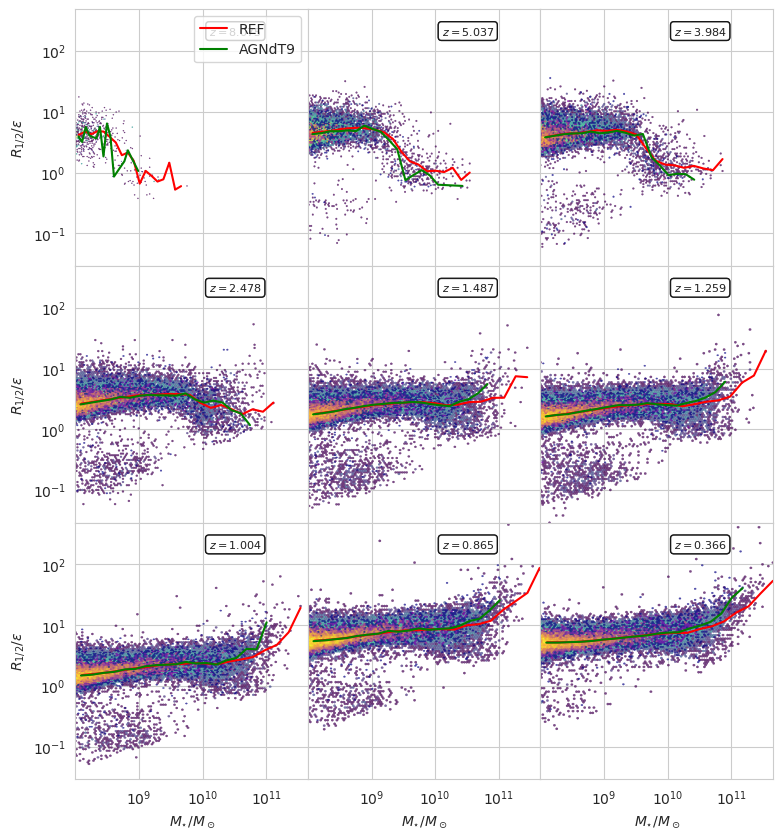
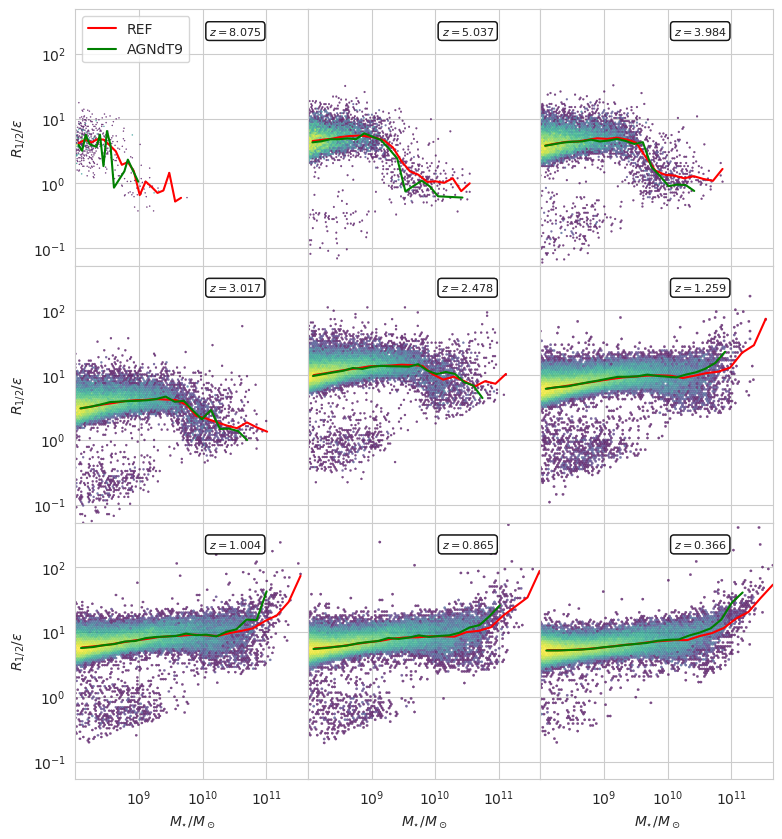
animation

diff --git a/birth_density_profile_REF.py b/birth_density_profile_REF.py
@@ -128,9 +128,9 @@ def get_data(masslim=1e8, load=False):
                 gal_bd = E.read_array('PARTDATA', path, snap, 'PartType4/BirthDensity', noH=True,
                                         physicalUnits=True, numThreads=8)
                 gal_coord = E.read_array('PARTDATA', path, snap, 'PartType4/Coordinates', noH=True,
-                                         physicalUnits=False, numThreads=8)
+                                         physicalUnits=True, numThreads=8)
                 gal_cop = E.read_array('SUBFIND', path, snap, 'Subhalo/CentreOfPotential', noH=True,
-                                       physicalUnits=False, numThreads=8)
+                                       physicalUnits=True, numThreads=8)
                 gal_aborn = E.read_array('PARTDATA', path, snap, 'PartType4/StellarFormationTime', numThreads=8)
             except ValueError:
                 continue
@@ -229,16 +229,17 @@ for ax, snap, (i, j) in zip([ax1, ax2, ax3, ax4, ax5, ax6, ax7, ax8, ax9], snaps
     else:
         ax.loglog()
     if z > 2.8:
-        ax.axvline(csoft, color='k', linestyle='--')
+        soft = csoft * 1 / (1 + z)
     else:
-        ax.axvline(psoft, color='k', linestyle='--')
+        soft = psoft * 1 / (1 + z)
+    ax.axvline(soft, color='k', linestyle='--')
 
     ax.text(0.1, 0.9, f'$z={z}$', bbox=dict(boxstyle="round,pad=0.3", fc='w', ec="k", lw=1, alpha=0.8),
             transform=ax.transAxes, horizontalalignment='left', fontsize=8)
 
     # Label axes
     if i == 2:
-        ax.set_xlabel("$R$ / [ckpc]")
+        ax.set_xlabel("$R$ / [pkpc]")
     if j == 0:
         ax.set_ylabel("Stellar Birth Density [$n_H$ cm$^{-3}$]")
 

diff --git a/subhalf_mass_scatter_allzsREF.py b/subhalf_mass_scatter_allzsREF.py
@@ -27,7 +27,7 @@ axlims_y = []
 # csoft = 0.001802390/0.677*1e3
 
 
-def plot_meidan_stat(xs, ys, ax, lab, color, bins=None):
+def plot_meidan_stat(xs, ys, ax, lab, color, bins=None, ls='-'):
 
     if bins == None:
         bin = np.logspace(np.log10(xs.min()), np.log10(xs.max()), 20)
@@ -43,7 +43,7 @@ def plot_meidan_stat(xs, ys, ax, lab, color, bins=None):
 
     okinds = np.logical_and(~np.isnan(bin_cents), ~np.isnan(y_stat))
 
-    ax.plot(bin_cents[okinds], y_stat[okinds], color=color, linestyle='-', label=lab)
+    ax.plot(bin_cents[okinds], y_stat[okinds], color=color, linestyle=ls, label=lab)
 
 
 half_mass_rads_dict = {}
@@ -145,7 +145,7 @@ for ax, snap, (i, j) in zip([ax1, ax2, ax3, ax4, ax5, ax6, ax7, ax8, ax9], snaps
     #                  linewidths=0.2, cmap='viridis')  # uncomment to include softening
     # cbar = ax.hexbin(xs_plt, half_mass_rads_plt / soft, gridsize=100, mincnt=1, xscale='log', yscale='log',
     #                  norm=LogNorm(), linewidths=0.2, cmap='plasma', alpha=0.7)
-    plot_meidan_stat(xs_plt, half_mass_rads_plt / soft, ax, lab='AGNdT9', color='g')
+    plot_meidan_stat(xs_plt, half_mass_rads_plt / soft, ax, lab='AGNdT9', color='m', ls='--')
 
     ax.text(0.8, 0.9, f'$z={z}$', bbox=dict(boxstyle="round,pad=0.3", fc='w', ec="k", lw=1, alpha=0.8),
             transform=ax.transAxes, horizontalalignment='right', fontsize=8)

diff --git a/birth_density_profile.py b/birth_density_profile.py
@@ -233,7 +233,8 @@ for ax, snap, (i, j) in zip([ax1, ax2, ax3, ax4, ax5, ax6, ax7, ax8, ax9], snaps
         axlims_y.extend(ax.get_ylim())
     else:
         ax.loglog()
-    ax.axvline(csoft, color='k', linestyle='--')
+    soft = csoft * 1 / (1 + z)
+    ax.axvline(soft, color='k', linestyle='--')
 
     ax.text(0.1, 0.9, f'$z={z}$', bbox=dict(boxstyle="round,pad=0.3", fc='w', ec="k", lw=1, alpha=0.8),
             transform=ax.transAxes, horizontalalignment='left', fontsize=8)
